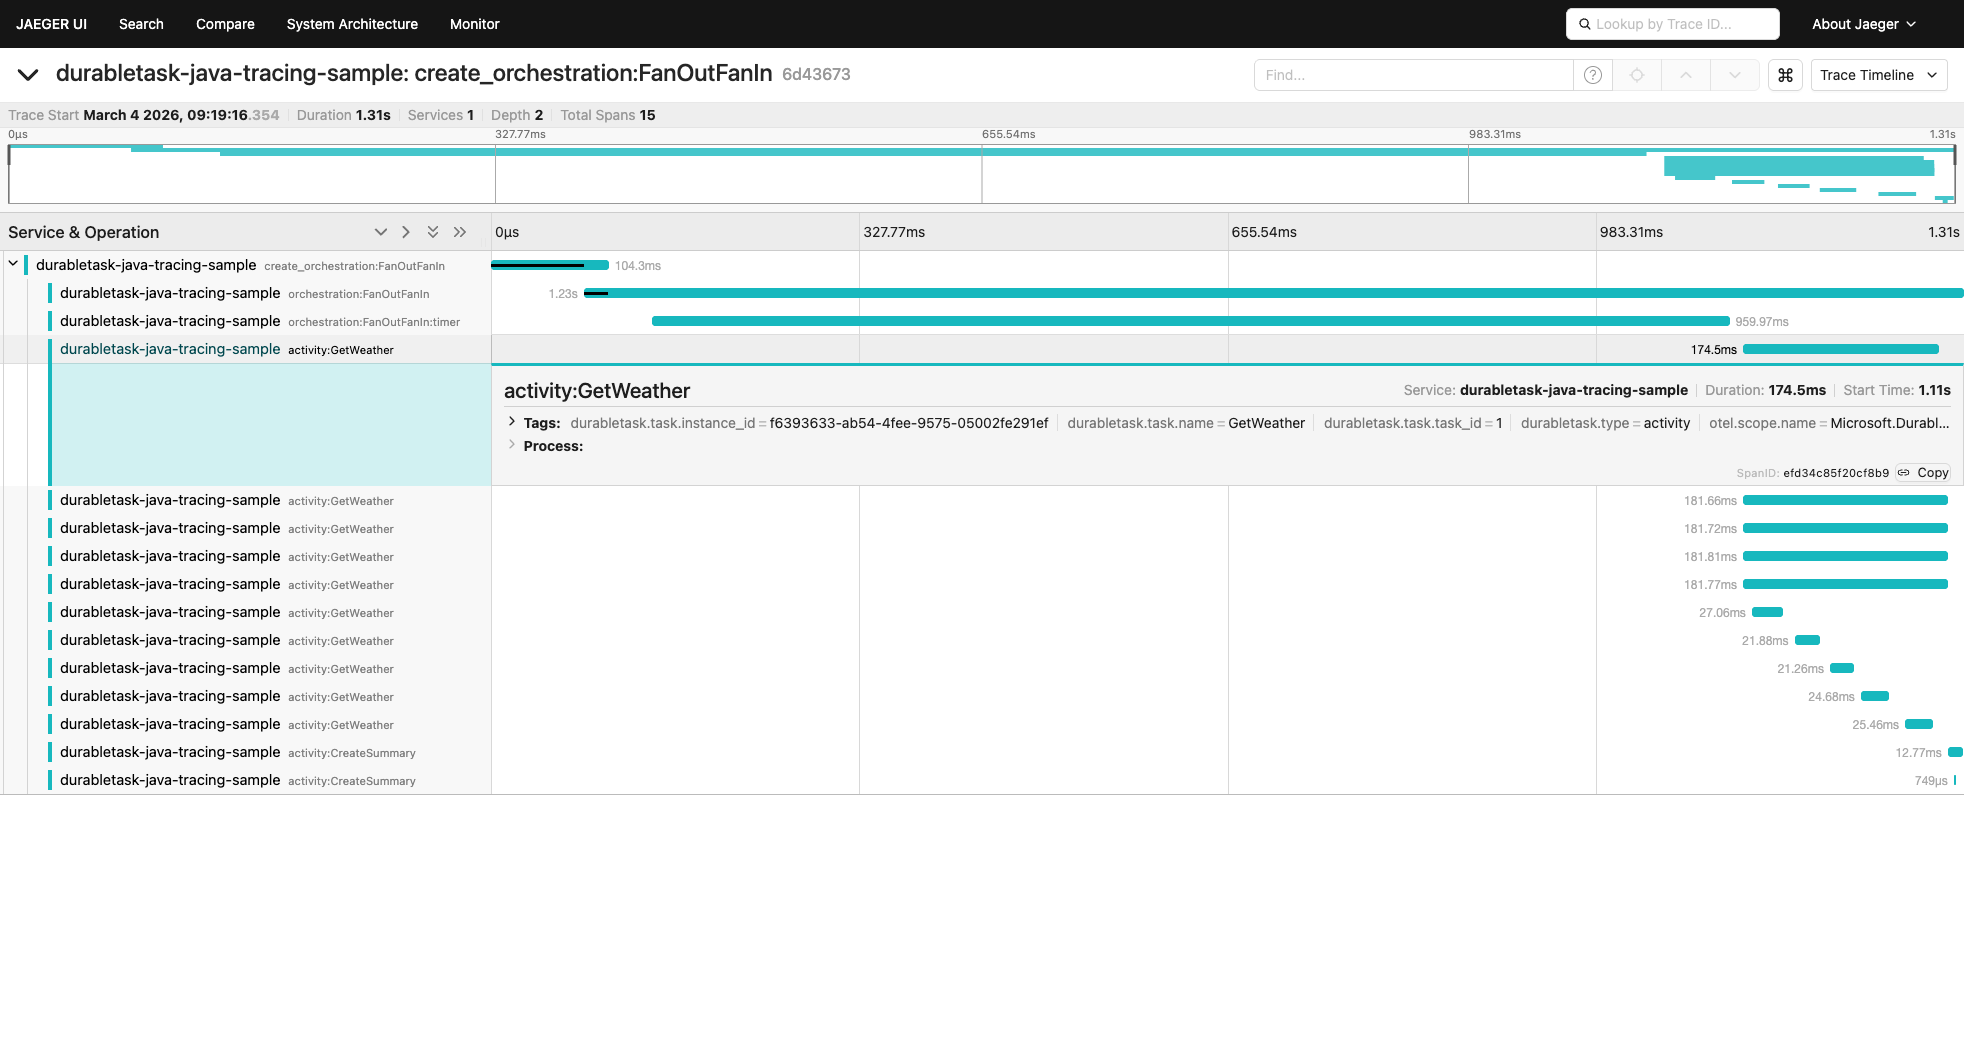
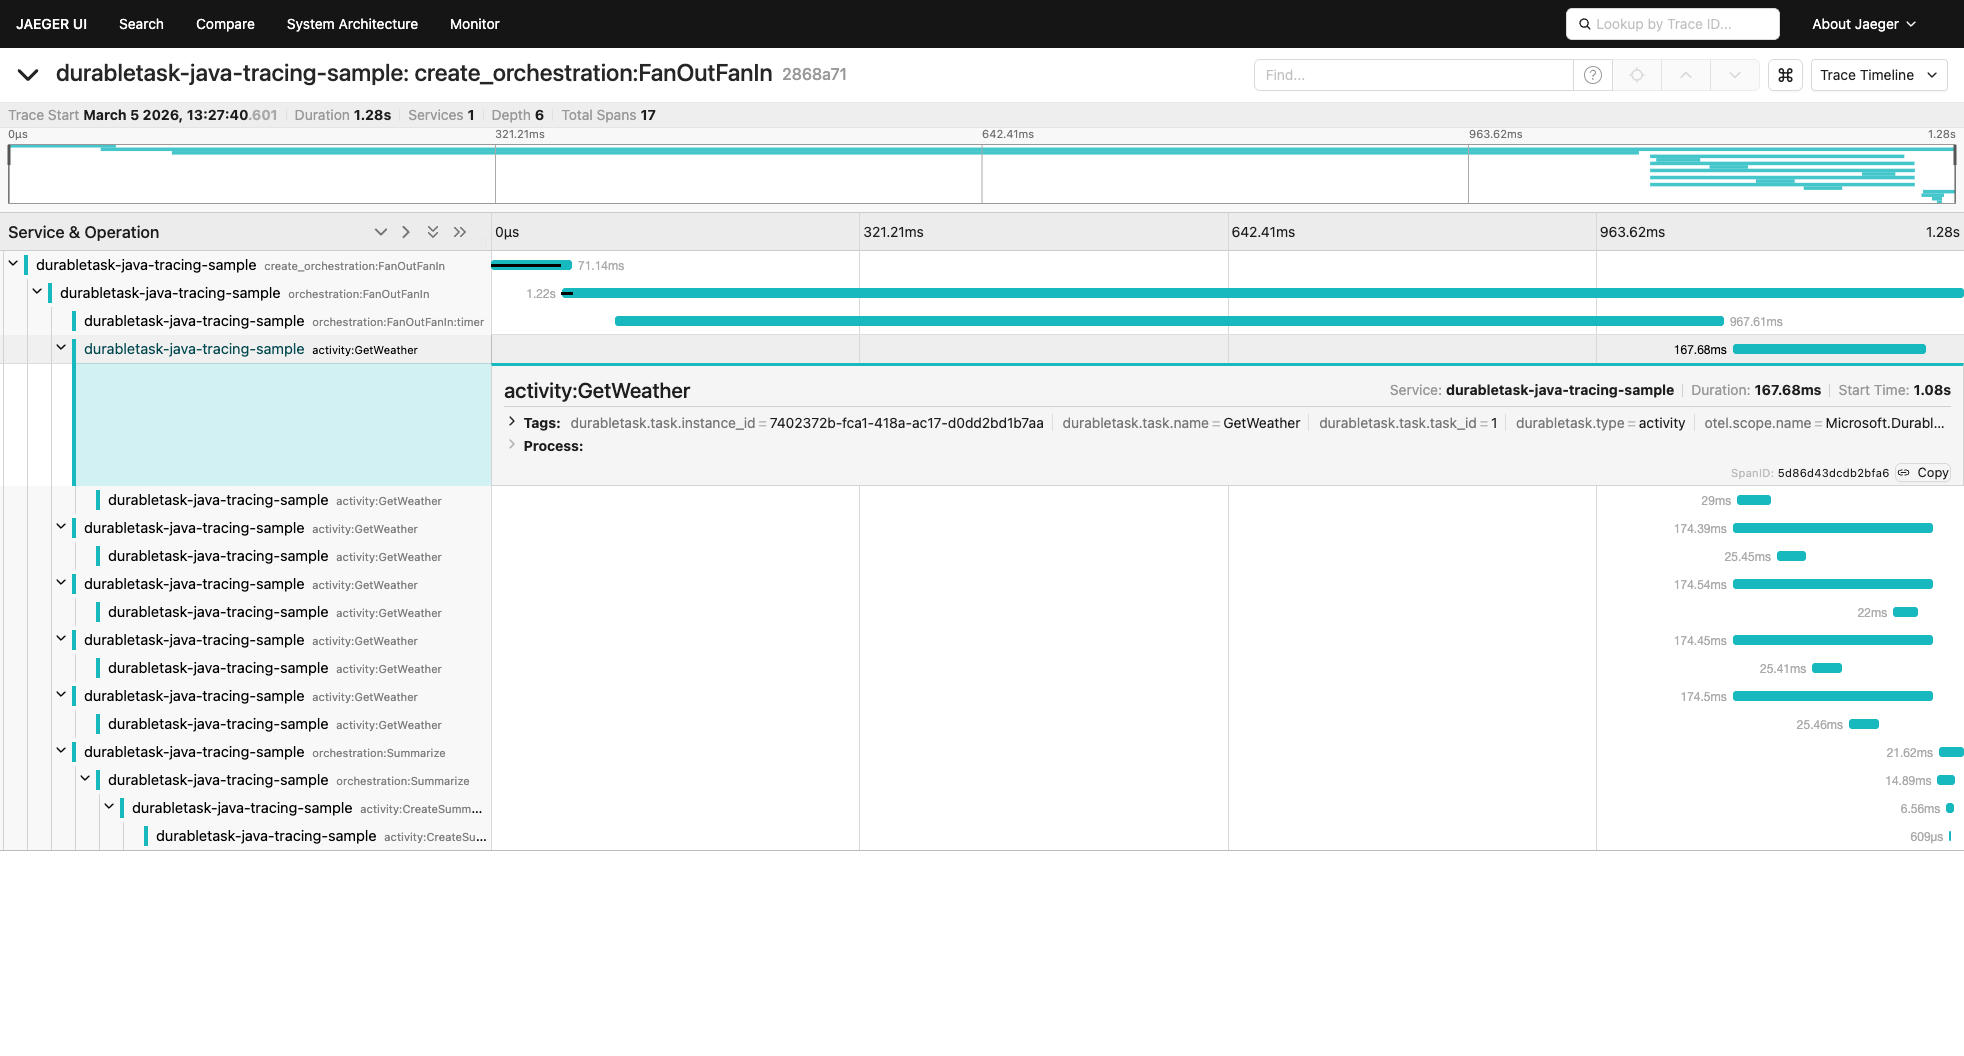
feat(tracing): add sub-orchestration to sample and update screenshots
- Add 'Summarize' sub-orchestration to TracingPattern sample that calls
  CreateSummary activity, demonstrating sub-orchestration span nesting
- Update TracingChain Azure Functions sample to match
- Update Jaeger screenshots showing 17 spans at Depth 6 with proper
  sub-orchestration hierarchy

diff --git a/samples/src/main/java/io/durabletask/samples/TracingPattern.java b/samples/src/main/java/io/durabletask/samples/TracingPattern.java
@@ -99,11 +99,25 @@ final class TracingPattern {
                             // Fan-in: wait for all activities to complete
                             List<String> results = ctx.allOf(parallelTasks).await();
 
-                            // Aggregate results
-                            String summary = ctx.callActivity(
-                                    "CreateSummary", String.join(", ", results), String.class).await();
+                            // Sub-orchestration: aggregate results (demonstrates sub-orch span)
+                            String summary = ctx.callSubOrchestrator(
+                                    "Summarize", String.join(", ", results), String.class).await();
 
                             ctx.complete(summary);
+                        };
+                    }
+                })
+                .addOrchestration(new TaskOrchestrationFactory() {
+                    @Override
+                    public String getName() { return "Summarize"; }
+
+                    @Override
+                    public TaskOrchestration create() {
+                        return ctx -> {
+                            String input = ctx.getInput(String.class);
+                            String result = ctx.callActivity(
+                                    "CreateSummary", input, String.class).await();
+                            ctx.complete(result);
                         };
                     }
                 })
